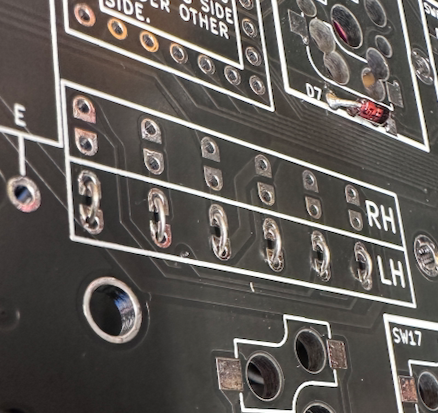
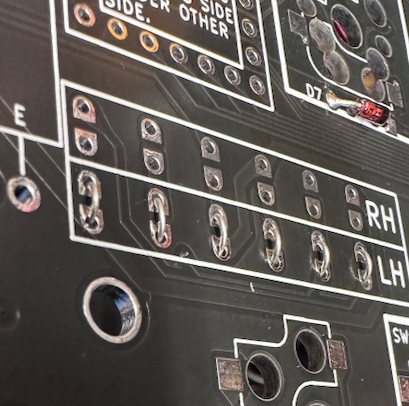
Squared jumper images

diff --git a/README.md b/README.md
@@ -175,7 +175,7 @@ Because the MCU on both sides shares the same footprint, we need to set jumpers 
 
 You can bridge the jumpers by dragging a blob of solder across the 2 adjacent pads. Modern rosin core solder can make this difficult. As an alternate bridging method, you can bend a diode leg and solder that in place. There is bending jig to make it easy to bend jumpers to the optimal width. The bottom slot on the jig is for the jumpers.
 
-<img style="max-width: 100px" alt="Bending jig location" src="images/bending_jigs.png" /> <img style="max-width: 100px" alt="Jumper bending jig in use" src="images/jumper_bender_use.png" /> <img style="max-width: 100px" alt="Six bent jumpers made from diode legs" src="images/jumpers.png" /> <img style="max-width: 100px" alt="Jumpers on the board that have not been soldered." src="images/jumpers_in_place.png" />
+<img style="max-width: 150px" alt="Bending jig location" src="images/bending_jigs.png" /> <img style="max-width: 150px" alt="Jumper bending jig in use" src="images/jumper_bender_use.png" /> <img style="max-width: 150px" alt="Six bent jumpers made from diode legs" src="images/jumpers.png" /> <img style="max-width: 150px" alt="Jumpers on the board that have not been soldered." src="images/jumpers_in_place.png" /> <img style="max-width: 150px" alt="Soldered jumpers on the left hand of the ErgoDonk Zero" src="images/soldered_jumpers.png" />
 
 ### RP2040 Zero MCU
 The Zero is installed on the top of the board, buttons facing up.
